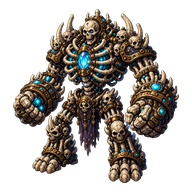
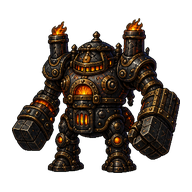
Release redesigned items and monster roster

diff --git a/src/scenes/GameScene.ts b/src/scenes/GameScene.ts
@@ -76,7 +76,7 @@ const MID_DRAGONS: { key: string; name: string; tint: number }[] = [
 const MILESTONE_BOSSES: Record<number, { key: string; name: string; tint: number; scale: number; hp: number; atkMin: number; atkMax: number; def: number }> = {
   5: { key: 'm_archdemon', name: '封印王アウレリウス', tint: 0xffc96b, scale: 1.72, hp: 96, atkMin: 6, atkMax: 11, def: 4 },
   10: { key: 'm_horn_demon', name: 'グランドバイソン', tint: 0xc98b52, scale: 1.82, hp: 150, atkMin: 9, atkMax: 16, def: 7 },
-  15: { key: 'm_bone_colossus', name: 'ボーンコロッサス', tint: 0xe1d3b9, scale: 1.9, hp: 220, atkMin: 11, atkMax: 19, def: 10 },
+  15: { key: 'm_bone_colossus', name: '炉心王タイタン', tint: 0xff9a45, scale: 1.9, hp: 220, atkMin: 11, atkMax: 19, def: 10 },
   20: { key: 'm_frost_wyrm', name: 'アズールドラゴン', tint: 0x4fa8ff, scale: 1.85, hp: 310, atkMin: 14, atkMax: 23, def: 12 },
   25: { key: 'm_brass_dragon', name: 'エンシェントドラゴン', tint: 0xff8c42, scale: 1.92, hp: 410, atkMin: 17, atkMax: 28, def: 15 },
   30: { key: 'm_hydra', name: 'トライヘッド・ドラゴン', tint: 0xb072ff, scale: 2.05, hp: 580, atkMin: 20, atkMax: 34, def: 18 }
@@ -134,7 +134,7 @@ interface AmbientMote {
 
 type BossGimmickKind =
   | 'mid_fire' | 'mid_frost' | 'mid_storm' | 'mid_void' | 'mid_bone' | 'mid_poison'
-  | 'bull_charge' | 'bone_colossus' | 'azure_flight' | 'ancient_fire' | 'tri_head';
+  | 'bull_charge' | 'furnace_titan' | 'azure_flight' | 'ancient_fire' | 'tri_head';
 
 type BossHazardKind = 'fire' | 'ice' | 'poison';
 type BossStrikeChannel = 'primary' | 'secondary' | 'tertiary';
@@ -180,6 +180,7 @@ interface BossObstacle {
   x: number;
   y: number;
   turns: number;
+  kind: 'bone' | 'iron';
   sprite: Phaser.GameObjects.Image;
 }
 
@@ -781,7 +782,7 @@ export class GameScene extends Phaser.Scene {
 
   milestoneGimmick(floor: number): BossGimmickKind {
     return ({
-      5: 'mid_fire', 10: 'bull_charge', 15: 'bone_colossus',
+      5: 'mid_fire', 10: 'bull_charge', 15: 'furnace_titan',
       20: 'azure_flight', 25: 'ancient_fire', 30: 'tri_head'
     } as Record<number, BossGimmickKind>)[floor] ?? 'mid_fire';
   }
@@ -952,11 +953,12 @@ export class GameScene extends Phaser.Scene {
   }
 
   destroyBossObstacle(obstacle: BossObstacle) {
-    this.effectFx(obstacle.x, obstacle.y, 'fx_hit', 1.35, 300, 0xe8d9bd);
-    this.pickupBurst(obstacle.sprite.x, obstacle.sprite.y, 0xe8d9bd, 5);
+    const color = obstacle.kind === 'iron' ? 0xff9147 : 0xe8d9bd;
+    this.effectFx(obstacle.x, obstacle.y, 'fx_hit', 1.35, 300, color);
+    this.pickupBurst(obstacle.sprite.x, obstacle.sprite.y, color, 5);
     obstacle.sprite.destroy();
     this.bossObstacles = this.bossObstacles.filter((o) => o !== obstacle);
-    this.log('骨壁を砕いた！', 'special');
+    this.log(obstacle.kind === 'iron' ? '炉鉄壁を砕いた！' : '骨壁を砕いた！', 'special');
   }
 
   validBossTile(x: number, y: number): boolean {
@@ -1133,9 +1135,9 @@ export class GameScene extends Phaser.Scene {
         if (tiles.length < 2) return null;
         message = 'グランドバイソンが突進の構え！ 横へ避ければ壁へ激突する。';
         break;
-      case 'bone_colossus':
+      case 'furnace_titan':
         tiles = this.bossCrossTiles(p.x, p.y, 2);
-        message = 'ボーンコロッサスが大地を踏み砕く！ 骨壁の発生に注意。';
+        message = '炉心王タイタンが大地を踏み砕く！ 灼熱の炉鉄壁に注意。';
         break;
       case 'azure_flight': {
         destination = this.findBossDestination(e, true) ?? undefined;
@@ -1267,9 +1269,9 @@ export class GameScene extends Phaser.Scene {
         if (firstWave && intent.destination) this.teleportBoss(e, intent.destination);
         if (onTiles(primary)) this.damagePlayerFromBoss(e, 0.72, `${e.def.name}の転移衝撃！`);
         break;
-      case 'bone_colossus':
-        if (onTiles(primary)) this.damagePlayerFromBoss(e, 0.92, '大地粉砕！');
-        this.spawnBoneWalls(e, primary, state.phaseTwo ? 2 : 1);
+      case 'furnace_titan':
+        if (onTiles(primary)) this.damagePlayerFromBoss(e, 0.92, '炉心震撃！');
+        this.spawnBossWalls(e, primary, state.phaseTwo ? 2 : 1, 'iron');
         break;
       case 'azure_flight':
         if (onTiles(primary)) this.damagePlayerFromBoss(e, 0.86, '氷結ブレス！');
@@ -1300,7 +1302,7 @@ export class GameScene extends Phaser.Scene {
         break;
       case 'mid_bone':
         if (onTiles(primary)) this.damagePlayerFromBoss(e, 0.62, '骨片噴出！');
-        this.spawnBoneWalls(e, primary, 1);
+        this.spawnBossWalls(e, primary, 1, 'bone');
         break;
       case 'mid_poison':
         if (onTiles(primary)) this.damagePlayerFromBoss(e, 0.64, '毒液散布！');
@@ -1319,7 +1321,8 @@ export class GameScene extends Phaser.Scene {
     if (kind === 'mid_frost' || kind === 'azure_flight') return 'ice';
     if (kind === 'mid_storm') return 'lightning';
     if (kind === 'mid_void') return 'void';
-    if (kind === 'mid_bone' || kind === 'bone_colossus') return 'bone';
+    if (kind === 'mid_bone') return 'bone';
+    if (kind === 'furnace_titan') return 'fire';
     if (kind === 'mid_poison') return 'poison';
     return 'impact';
   }
@@ -1448,7 +1451,7 @@ export class GameScene extends Phaser.Scene {
     this.player.shield = this.player.shields[0] ?? null;
   }
 
-  spawnBoneWalls(e: Enemy, candidates: Vec2[], count: number) {
+  spawnBossWalls(e: Enemy, candidates: Vec2[], count: number, kind: 'bone' | 'iron') {
     const choices = candidates.filter((tile) => {
       if (tile.x === this.player.x && tile.y === this.player.y) return false;
       if (tile.x === e.x && tile.y === e.y) return false;
@@ -1456,12 +1459,14 @@ export class GameScene extends Phaser.Scene {
     });
     Phaser.Utils.Array.Shuffle(choices);
     const suffix = eraSuffix(getTheme(this.floor).era);
+    const tint = kind === 'iron' ? 0x7a4b36 : 0xffe7c2;
+    const effectColor = kind === 'iron' ? 0xff9147 : 0xe8d9bd;
     for (const tile of choices.slice(0, count)) {
       const texture = this.textures.exists('prop_statue') ? 'prop_statue' : `wall${suffix}`;
       const sprite = this.add.image(tile.x * TILE + TILE / 2, tile.y * TILE + TILE / 2, texture)
-        .setDepth(8.6).setDisplaySize(TILE - 5, TILE - 3).setTint(0xffe7c2);
-      this.bossObstacles.push({ ...tile, turns: 5, sprite });
-      this.effectFx(tile.x, tile.y, 'fx_hit', 1.25, 300, 0xe8d9bd);
+        .setDepth(8.6).setDisplaySize(TILE - 5, TILE - 3).setTint(tint);
+      this.bossObstacles.push({ ...tile, turns: 5, kind, sprite });
+      this.effectFx(tile.x, tile.y, 'fx_hit', 1.25, 300, effectColor);
     }
   }
 
@@ -2511,7 +2516,7 @@ export class GameScene extends Phaser.Scene {
     e.animating = true;
     const targetX = mv.x * TILE + TILE / 2;
     const targetY = mv.y * TILE + TILE / 2;
-    const flying = /drake|dragon|wyrm|wyvern|moth|fiend|lich/.test(e.def.key);
+    const flying = !!e.def.wallPass || /drake|dragon|wyrm|wyvern|moth|fiend|lich/.test(e.def.key);
     const rushing = /hound|cerberus|crawler/.test(e.def.key);
     const lean = Math.sign(targetX - e.sprite.x) * (flying ? -2 : -4);
     e.sprite.setAngle(lean);
@@ -3682,8 +3687,8 @@ export class GameScene extends Phaser.Scene {
     for (const e of this.enemies) {
       if (!e.sprite || !e.sprite.visible) continue;
       if (!e.animating) {
-        const flying = /drake|dragon|wyrm|wyvern|moth|fiend|lich/.test(e.def.key);
-        const bony = /bone|skeleton|death|grave|lich/.test(e.def.key);
+        const flying = !!e.def.wallPass || /drake|dragon|wyrm|wyvern|moth|fiend|lich/.test(e.def.key);
+        const bony = ['m_bone_dragon', 'm_death_knight', 'm_grave_crawler', 'm_lich'].includes(e.def.key);
         const pulse = Math.sin(time * (flying ? 0.0052 : 0.004) + e.bobPhase);
         e.sprite.scaleX = e.baseScale * (1 - pulse * (bony ? 0.01 : 0.018));
         e.sprite.scaleY = e.baseScale * (1 + pulse * (flying ? 0.065 : 0.045));
@@ -3745,6 +3750,7 @@ export class GameScene extends Phaser.Scene {
       name: e.def.name, hp: e.hp, hpMax: e.hpMax,
       atk: `${e.def.atkMin}-${e.def.atkMax}`, def: e.def.def,
       behavior: this.behaviorLabel(e.def.behavior),
+      description: e.def.description,
       element: `${ELEMENT_INFO[element].name}属性（弱点: ${ELEMENT_INFO[ELEMENT_INFO[element].weakTo].name}属性）`
     });
   }

diff --git a/src/data.ts b/src/data.ts
@@ -241,15 +241,15 @@ export function makeItem(kind: ItemKind): Item {
 const MONSTER_ELEMENTS: Record<string, Element> = {
   m_mush: 'fire', m_mole: 'thunder', m_jelly: 'water', m_ghost: 'ice',
   m_gear: 'thunder', m_vine: 'water', m_mud: 'water', m_moss: 'water',
-  m_bat: 'ice', m_imp: 'thunder', m_snake: 'water', m_skel: 'fire', m_archer: 'ice',
+  m_bat: 'ice', m_imp: 'thunder', m_snake: 'water', m_skel: 'ice', m_archer: 'thunder',
   m_ember_drake: 'fire', m_frost_wyrm: 'ice', m_storm_wyvern: 'thunder',
   m_brass_dragon: 'fire', m_void_drake: 'thunder', m_bone_dragon: 'ice',
   m_horn_demon: 'fire', m_chain_demon: 'thunder', m_flame_gargoyle: 'fire',
   m_abyss_hound: 'ice', m_mask_fiend: 'thunder', m_archdemon: 'fire',
-  m_bone_hound: 'ice', m_skeleton_mage: 'ice', m_death_knight: 'thunder',
-  m_lich: 'ice', m_bone_colossus: 'ice', m_grave_crawler: 'water',
+  m_bone_hound: 'thunder', m_skeleton_mage: 'ice', m_death_knight: 'thunder',
+  m_lich: 'ice', m_bone_colossus: 'fire', m_grave_crawler: 'water',
   m_cerberus: 'fire', m_hydra: 'water', m_crystal_crab: 'ice', m_blood_moth: 'fire',
-  m_clockwork_chimera: 'thunder', m_slime: 'water', m_beetle: 'thunder',
+  m_clockwork_chimera: 'thunder', m_slime: 'thunder', m_beetle: 'thunder',
   m_wisp: 'fire', m_spider: 'water', m_golem: 'thunder', m_eye: 'thunder',
   m_wraith: 'ice', m_reaper: 'fire', m_guard: 'ice', m_watcher: 'thunder'
 };
@@ -300,12 +300,14 @@ const MONSTER_DEFS_RAW: MonsterDef[] = [
     exp: 9, gold: 14, score: 65, minFloor: 9, maxFloor: 24, behavior: 'chase', color: 0x3a9a6a
   },
   {
-    key: 'm_skel', name: 'トーチスケルトン', hp: 32, atkMin: 8, atkMax: 15, def: 5,
-    exp: 10, gold: 10, score: 70, minFloor: 12, maxFloor: 28, behavior: 'ranged', ranged: true, color: 0x4fd0ff
+    key: 'm_skel', name: '蒼灯フクロウ', description: '青い灯火を吊るし、上空から氷弾を放つ機械フクロウ。',
+    hp: 32, atkMin: 8, atkMax: 15, def: 5, exp: 10, gold: 10, score: 70,
+    minFloor: 12, maxFloor: 28, behavior: 'ranged', ranged: true, wallPass: true, color: 0x4fd0ff
   },
   {
-    key: 'm_archer', name: 'ボーンアーチャー', hp: 26, atkMin: 7, atkMax: 14, def: 4,
-    exp: 9, gold: 10, score: 65, minFloor: 5, maxFloor: 26, behavior: 'ranged', ranged: true, color: 0xd8d2c0
+    key: 'm_archer', name: 'ギアホーネット', description: '小型の弩を抱え、雷を帯びた針で遠距離を射抜く機巧蜂。',
+    hp: 26, atkMin: 7, atkMax: 14, def: 4, exp: 9, gold: 10, score: 65,
+    minFloor: 5, maxFloor: 26, behavior: 'ranged', ranged: true, wallPass: true, color: 0xd0a13d
   },
   // ===== 深層獣群アップデート（新規23種） =====
   {
@@ -360,12 +362,14 @@ const MONSTER_DEFS_RAW: MonsterDef[] = [
     exp: 29, gold: 34, score: 180, minFloor: 24, maxFloor: 29, behavior: 'chase', isElite: true, color: 0xb6292d
   },
   {
-    key: 'm_bone_hound', name: '骨牙ハウンド', hp: 22, atkMin: 5, atkMax: 10, def: 2,
-    exp: 6, gold: 6, score: 45, minFloor: 5, maxFloor: 15, behavior: 'chase', color: 0xd8ccb4
+    key: 'm_bone_hound', name: '鉄殻アルマジロ', description: '分厚い鉄殻を丸め、雷をまとって一直線に突進する装甲獣。',
+    hp: 34, atkMin: 7, atkMax: 13, def: 9, exp: 9, gold: 9, score: 62,
+    minFloor: 5, maxFloor: 15, behavior: 'line', color: 0x4f6670
   },
   {
-    key: 'm_skeleton_mage', name: '骸骨魔導士', hp: 30, atkMin: 7, atkMax: 15, def: 4,
-    exp: 10, gold: 12, score: 72, minFloor: 9, maxFloor: 20, behavior: 'ranged', ranged: true, color: 0x8a58bd
+    key: 'm_skeleton_mage', name: 'ルーンマンドラゴラ', description: '浮遊するルーン石を操り、根を張ったまま氷の術を放つ魔草。',
+    hp: 30, atkMin: 7, atkMax: 15, def: 4, exp: 10, gold: 12, score: 72,
+    minFloor: 9, maxFloor: 20, behavior: 'ranged', ranged: true, color: 0x8a58bd
   },
   {
     key: 'm_death_knight', name: '死霊騎士', hp: 52, atkMin: 12, atkMax: 21, def: 13,
@@ -377,8 +381,9 @@ const MONSTER_DEFS_RAW: MonsterDef[] = [
     ranged: true, wallPass: true, isElite: true, color: 0x633e9e
   },
   {
-    key: 'm_bone_colossus', name: '骨塊コロッサス', hp: 86, atkMin: 15, atkMax: 25, def: 17,
-    exp: 27, gold: 30, score: 170, minFloor: 20, maxFloor: 29, behavior: 'slow', isElite: true, color: 0xc9b995
+    key: 'm_bone_colossus', name: '溶鉱炉タイタン', description: '炉心の炎で巨体を動かし、灼熱の鉄拳を振り下ろす機械巨人。',
+    hp: 86, atkMin: 15, atkMax: 25, def: 17, exp: 27, gold: 30, score: 170,
+    minFloor: 20, maxFloor: 29, behavior: 'slow', isElite: true, color: 0xc96b32
   },
   {
     key: 'm_grave_crawler', name: '墓這い', hp: 16, atkMin: 4, atkMax: 9, def: 1,
@@ -408,8 +413,9 @@ const MONSTER_DEFS_RAW: MonsterDef[] = [
   },
   // ===== 追加モンスター（種類を増やす）=====
   {
-    key: 'm_slime', name: 'ネジスライム', hp: 14, atkMin: 2, atkMax: 6, def: 0,
-    exp: 3, gold: 4, score: 25, minFloor: 1, maxFloor: 8, behavior: 'random', color: 0x6fd06f
+    key: 'm_slime', name: 'ミミックチェスト', description: '宝箱に擬態し、近づいた冒険者へ雷を帯びた長い舌で襲いかかる。',
+    hp: 20, atkMin: 4, atkMax: 9, def: 3, exp: 5, gold: 10, score: 38,
+    minFloor: 1, maxFloor: 8, behavior: 'chase', color: 0x7b4a38
   },
   {
     key: 'm_beetle', name: 'ゼンマイ甲虫', hp: 24, atkMin: 5, atkMax: 9, def: 7,

diff --git a/src/assetLoader.ts b/src/assetLoader.ts
@@ -66,11 +66,9 @@ const FRAME_DEFS: FrameDef[] = [
   { key: 'm_bat', sheet: 'monsters', r: [33, 590, 168, 712], mode: 'sprite', size: 32 },
   { key: 'm_imp', sheet: 'monsters', r: [383, 585, 502, 712], mode: 'sprite', size: 32 },
   { key: 'm_snake', sheet: 'monsters', r: [728, 590, 852, 712], mode: 'sprite', size: 32 },
-  { key: 'm_skel', sheet: 'monsters', r: [1088, 582, 1207, 714], mode: 'sprite', size: 32 },
   { key: 'm_guard', sheet: 'monsters', r: [148, 750, 292, 888], mode: 'sprite', size: 36 },
   { key: 'm_watcher', sheet: 'monsters', r: [635, 742, 935, 892], mode: 'sprite', size: 48 },
   // 下段「環境クリーチャー」から流用（実画像がある追加モンスター）
-  { key: 'm_slime', sheet: 'monsters', r: [342, 928, 519, 1064], mode: 'sprite', size: 32 }, // どくぬめり
   { key: 'm_wisp',  sheet: 'monsters', r: [66, 928, 142, 1064], mode: 'sprite', size: 36 },  // 青い炎
 
   // ---- 武器 ----
@@ -86,15 +84,11 @@ const FRAME_DEFS: FrameDef[] = [
   { key: 'w_gravity', sheet: 'items', r: [1307, 58, 1423, 198], mode: 'sprite', size: 48},
 
   // ---- 消耗品 ----
-  { key: 'i_potion', sheet: 'items', r: [85, 505, 196, 645], mode: 'sprite', size: 48},
   { key: 'i_shroom', sheet: 'items', r: [415, 505, 526, 645], mode: 'sprite', size: 48},
-  { key: 'i_smoke', sheet: 'items', r: [750, 505, 861, 645], mode: 'sprite', size: 48},
   { key: 'i_bomb', sheet: 'items', r: [907, 505, 1018, 645], mode: 'sprite', size: 48},
-  { key: 'i_warp', sheet: 'items', r: [1066, 505, 1177, 645], mode: 'sprite', size: 48},
   { key: 'i_revive', sheet: 'items', r: [1245, 505, 1356, 645], mode: 'sprite', size: 48},
 
   // ---- お宝・キーアイテム ----
-  { key: 'coin', sheet: 'items', r: [75, 715, 205, 848], mode: 'sprite', size: 48},
   { key: 'i_oldkey', sheet: 'items', r: [428, 715, 538, 848], mode: 'sprite', size: 48},
   { key: 'i_floorkey', sheet: 'items', r: [583, 715, 693, 848], mode: 'sprite', size: 48},
   // i_stone / i_shieldstone / i_invis / i_dash は専用のオリジナル画像を使用する。
@@ -109,8 +103,6 @@ const FRAME_DEFS: FrameDef[] = [
   { key: 'fx_levelup', sheet: 'items', r: [1161, 908, 1341, 1055], mode: 'sprite', size: 44 }, // レベルアップ
 
   // ---- 宝箱・階段・扉 ----
-  { key: 'chest', sheet: 'tiles', r: [30, 588, 135, 692], mode: 'sprite', size: 30 },
-  { key: 'chest_open', sheet: 'tiles', r: [163, 585, 275, 692], mode: 'sprite', size: 30 },
   { key: 'prop_torch', sheet: 'tiles', r: [292, 575, 390, 706], mode: 'sprite', size: 34 },
   { key: 'prop_lantern', sheet: 'tiles', r: [398, 575, 520, 706], mode: 'sprite', size: 34 },
   { key: 'prop_barrel', sheet: 'tiles', r: [980, 575, 1110, 706], mode: 'sprite', size: 34 },

diff --git a/src/scenes/UIScene.ts b/src/scenes/UIScene.ts
@@ -93,7 +93,8 @@ export class UIScene extends Phaser.Scene {
     this.overlay = this.add.container(0, 0).setDepth(100).setVisible(false);
     this.enemyInfoText = this.add.text(IS_MOBILE ? MAP_X + 8 : GAME_W - 360, IS_MOBILE ? MAP_Y + 8 : 300, '', {
       fontFamily: '"Yu Gothic UI"', fontSize: '14px', color: '#dfe7f0',
-      backgroundColor: '#0a1420ee', padding: { x: 8, y: 6 }, lineSpacing: 4
+      backgroundColor: '#0a1420ee', padding: { x: 8, y: 6 }, lineSpacing: 4,
+      wordWrap: { width: IS_MOBILE ? 250 : 330 }
     }).setDepth(90).setVisible(false);
 
     // イベント購読（GameSceneのイベントemitterに登録）
@@ -646,13 +647,15 @@ export class UIScene extends Phaser.Scene {
   }
 
   showEnemyInfo(info: any) {
-    this.enemyInfoText.setText([
+    const lines = [
       `【${info.name}】`,
+      ...(info.description ? [info.description] : []),
       `属性: ${info.element}`,
       `HP: ${info.hp}/${info.hpMax}`,
       `攻撃: ${info.atk}  防御: ${info.def}`,
       `行動: ${info.behavior}`
-    ].join('\n')).setVisible(true);
+    ];
+    this.enemyInfoText.setText(lines.join('\n')).setVisible(true);
     this.time.delayedCall(3000, () => this.enemyInfoText.setVisible(false));
   }
 

diff --git a/src/textures.ts b/src/textures.ts
@@ -481,28 +481,6 @@ const CUSTOM_GRIDS: Record<string, string[]> = {
     '..zxyyxxyyxz..', '.zxxxxxxxxxxz.', '.zxexppxppexz.', '.zxxxxxxxxxxz.',
     'dzxxxxxxxxxxzd', '.zzxxxxxxxxzz.', 'd.zzzzzzzzzz.d', '.d.d.d..d.d.d.',
   ],
-  // ネジスライム（緑の粘体・泡）※実画像フォールバック
-  m_slime: [
-    '..............', '......pp......', '.....p..p.....', '......pp......',
-    '..............', '...yyxxxxyy...', '..yxxxxxxxxy..', '.zxxeppxppexz.',
-    '.zxxxxxxxxxxz.', 'zxxxxxxxxxxxxz', 'zzxxxxxxxxxxzz', '.zzzzzzzzzzzz.',
-  ],
-  // ボーンアーチャー（骸骨の弓兵：右手に金の弓＋弦＋つがえた矢）
-  m_archer: [
-    '....zwwwz..g..',
-    '...zwwwwwzg.e.',
-    '...zwpwpwzg.e.',
-    '...zwwwwwzgoe.',
-    '....zwwwz.geo.',
-    '.....zwz..g.e.',
-    '...wwwwwwwg.e.',
-    '..d.wwwww.dge.',
-    '....w.w.w..g..',
-    '...wwwwwww....',
-    '....z...z.....',
-    '....w...w.....',
-    '...ww...ww....',
-  ],
   // 迷い火ウィスプ（青い炎）※実画像フォールバック
   m_wisp: [
     '......x.......', '.....xyx......', '....xyyyx.....', '....xyayx.....',

diff --git a/src/scenes/BootScene.ts b/src/scenes/BootScene.ts
@@ -6,6 +6,7 @@ import { Audio } from '../audio/manager';
 import { PLAYER_SHEETS } from '../playerAppearance';
 
 const EXPANSION_MONSTER_KEYS = [
+  'm_skel', 'm_archer', 'm_slime',
   'm_ember_drake', 'm_frost_wyrm', 'm_storm_wyvern', 'm_brass_dragon', 'm_void_drake', 'm_bone_dragon',
   'm_horn_demon', 'm_chain_demon', 'm_flame_gargoyle', 'm_abyss_hound', 'm_mask_fiend', 'm_archdemon',
   'm_bone_hound', 'm_skeleton_mage', 'm_death_knight', 'm_lich', 'm_bone_colossus', 'm_grave_crawler',
@@ -69,6 +70,12 @@ const SHIELD_ART = {
 } as const;
 
 const ORIGINAL_ITEM_ART = {
+  i_potion: 'assets/items/healing-potion.png',
+  i_smoke: 'assets/items/smoke-bottle.png',
+  i_warp: 'assets/items/warp-bell.png',
+  coin: 'assets/items/coin-pile.png',
+  chest: 'assets/items/treasure-chest.png',
+  chest_open: 'assets/items/treasure-chest-open.png',
   i_stone: 'assets/items/weapon-enhancement-scroll.png',
   i_shieldstone: 'assets/items/armor-enhancement-scroll.png',
   i_invis: 'assets/items/invisibility-potion.png',

diff --git a/src/types.ts b/src/types.ts
@@ -101,6 +101,7 @@ export interface Item {
 export interface MonsterDef {
   key: string;
   name: string;
+  description?: string;
   hp: number;
   atkMin: number;
   atkMax: number;
